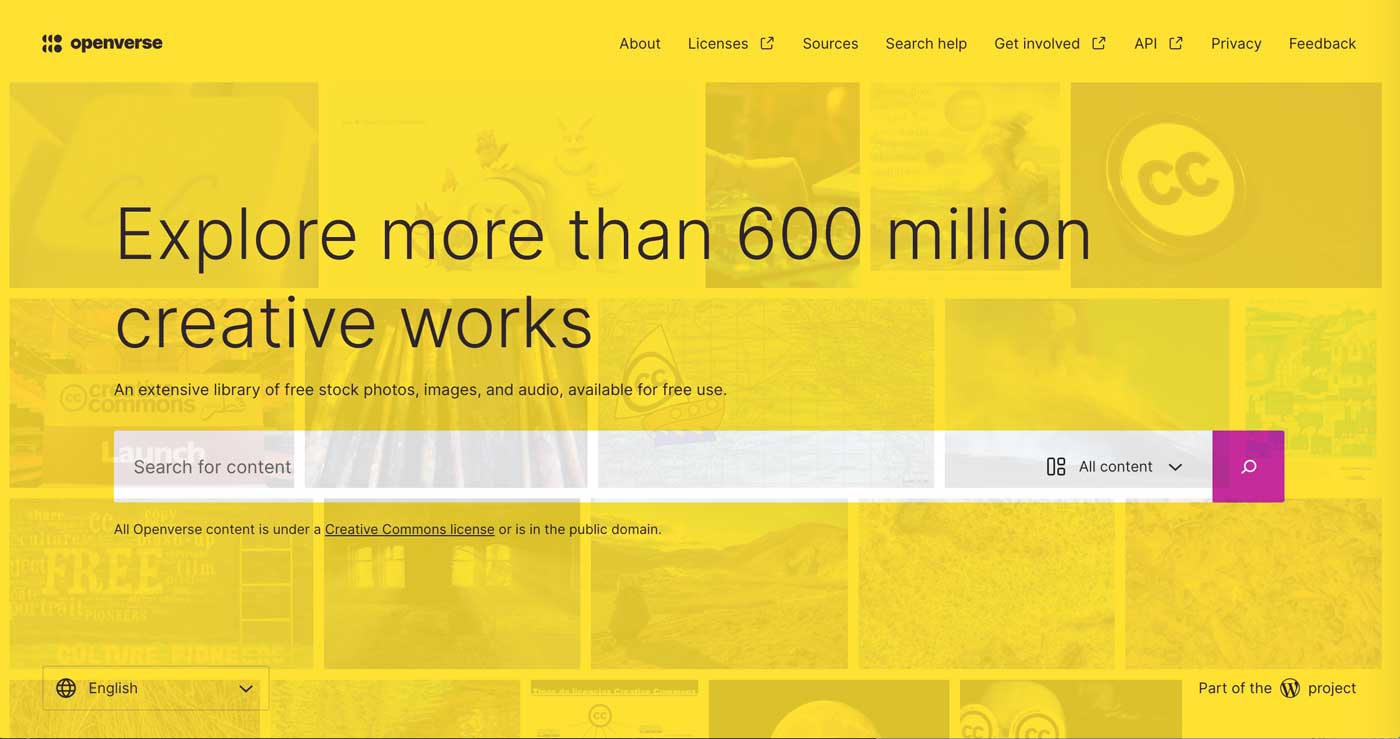
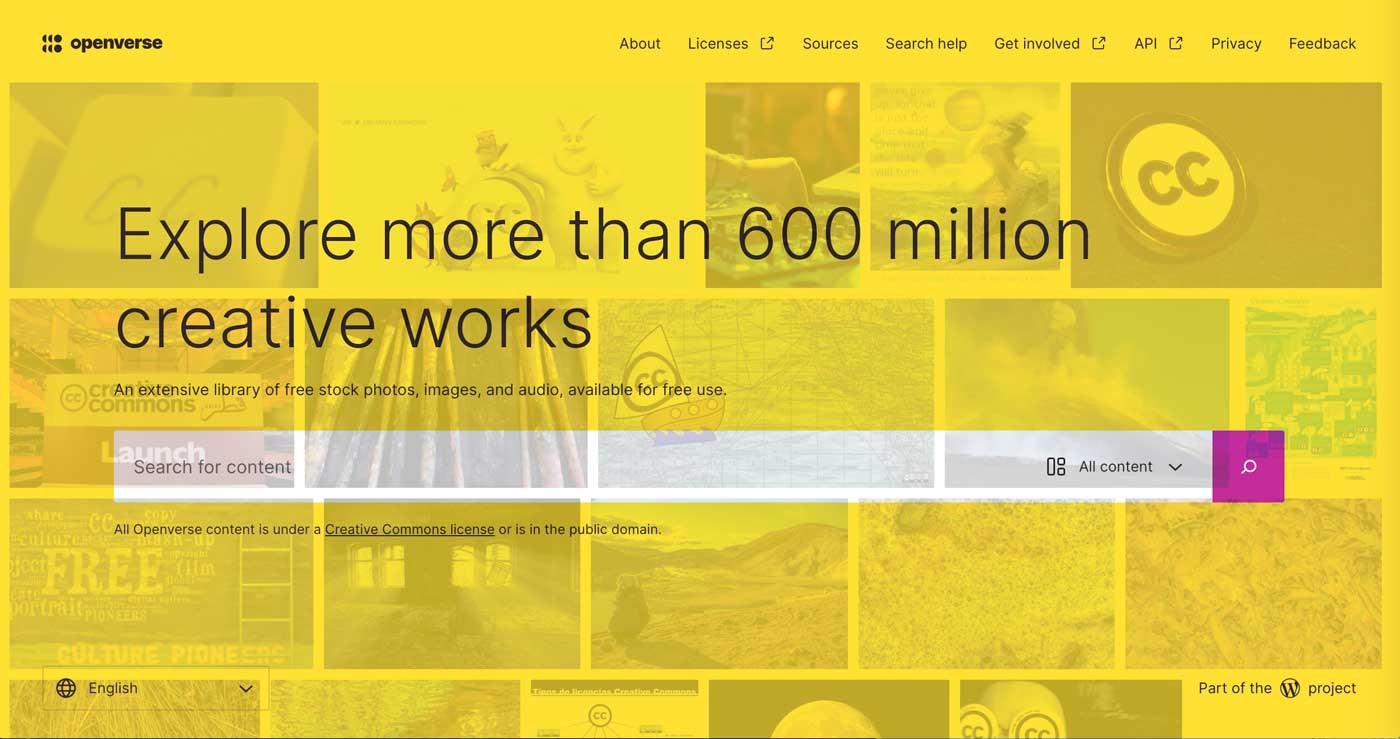
Attribution for openverse bg

diff --git a/docs/openverse.html b/docs/openverse.html
@@ -96,7 +96,7 @@
 	<div id="footer" class="container-fluid text-center">
 		<p>
 		<!-- background image attribution -->
-		<a href="https://flickr.com/photos/touho/3482613006">Revox A720 Digital FM Tuner pre-amplifier</a> flickr photo by <a href="https://flickr.com/people/touho">touhotus</a> shared under a <a href="https://creativecommons.org/licenses/by/2.0/">Creative Commons (BY) license</a> modified by Alan Levine shared also under a  <a href="https://creativecommons.org/licenses/by/2.0/">Creative Commons (BY) license</a><br />
+		<a href="https://cogdog.github.io/cc-image-search/openverse-bg.jpg">Composite image</a> of screenshot of Openverse.org site with overlay of <a href="https://openverse.org/search/image?q=%22creative%20commons%22">search on "Creative Commons" </a>by <a href="https://cog.dog/">Alan Levine</a> shared also under a  <a href="https://creativecommons.org/licenses/by/4.0/">Creative Commons (BY) license</a><br />
 		</p>
 		
 		<p>
